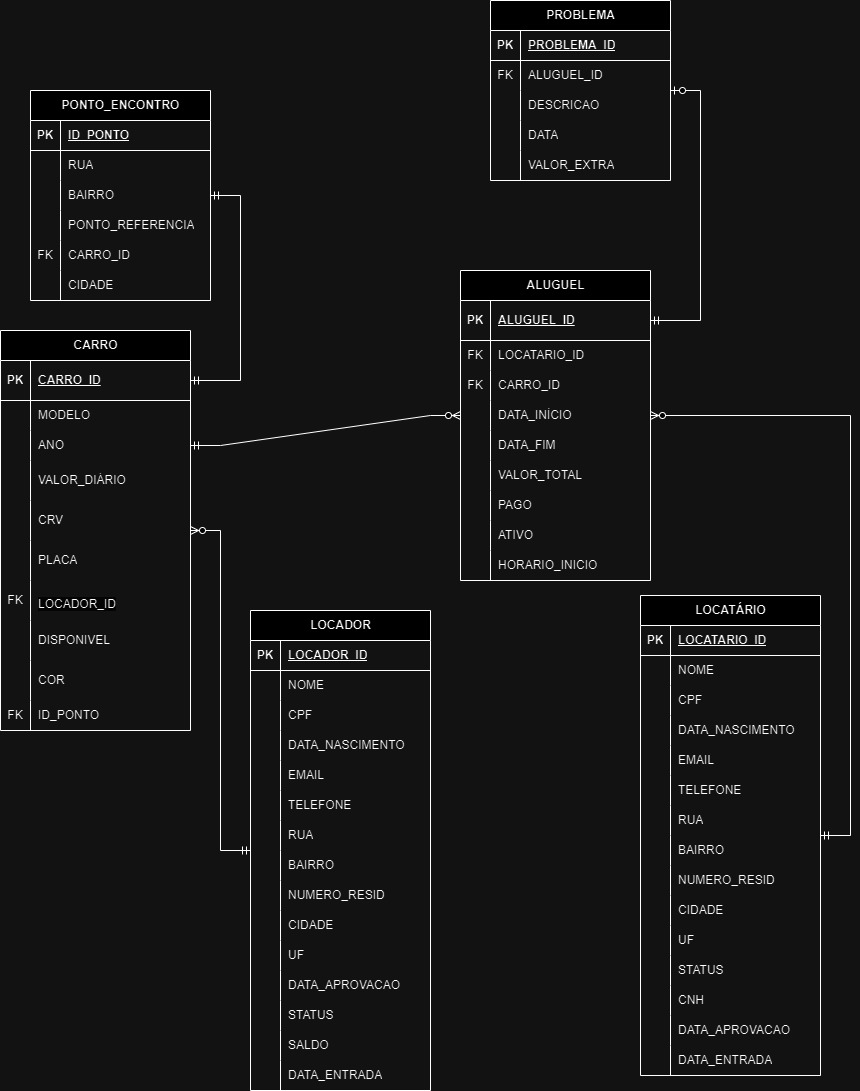
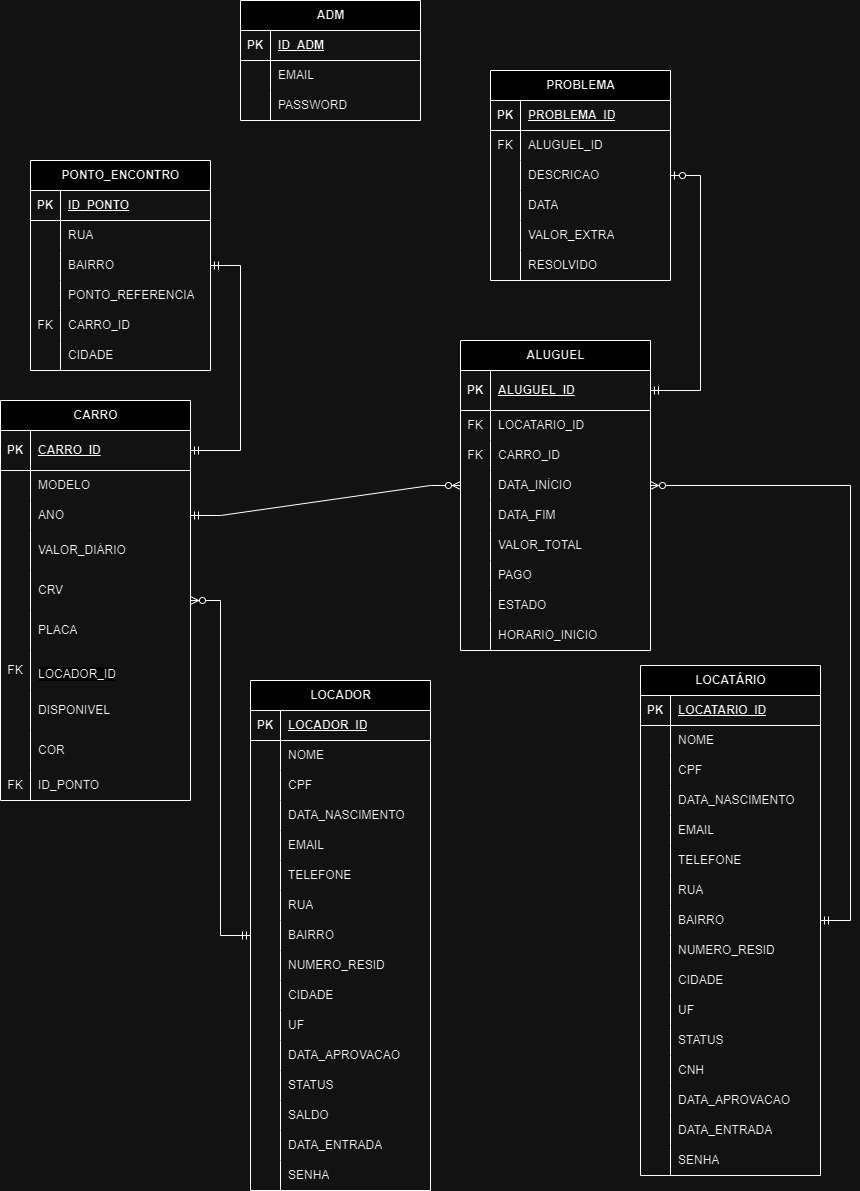
Correções gerais

diff --git a/docs/processo-1-Gerenciamento-de-clientes.md b/docs/processo-1-Gerenciamento-de-clientes.md
@@ -14,25 +14,26 @@
 
 | **Comandos**         |  **Destino**                   | **Tipo**          |
 | ---                  | ---                            | ---               |
-|    Cadastrar-se como Locador   |  Tela de cadastro de locador        |       |
-| Cadastrar-se como Locatário | Tela de cadastro de locatário |     |
+|    Locar um veículo   |  Tela de cadastro de locador        |       |
+| Alugar um veículo | Tela de cadastro de locatário |     |
 | Voltar | Retorna a página inicial  | cancel |
 
 **Cadastrar dados como locatário**
 
 | **Campo**       | **Tipo**         | **Restrições** | **Valor default** |
 | ---             | ---              | ---            | ---               |
-|   Nome          |   Caixa de texto |                |                   |
-|   CPF           | Caixa de texto   | 000.000.000-00 |                   |
-| Data de nascimento | Data          |    00/00/0000  |                   |
+|   Nome Completo         |   Caixa de texto |                |                   |
 |   E-mail        | Caixa de texto   |                |                   |
 |   Telefone     | Número            | (00) 9 0000-0000 |                 |  
+| Data de nascimento | Data          |    00/00/0000  |                   |
 | Rua            | Caixa de texto  |                |                     |
 | Bairro        | Caixa de texto  |                   |                   |
 | Número         | Número            |                |                   |
 | Cidade        | Caixa de seleção   |                |                   |
 | UF            | Caixa de seleção   |                |                   |
-| Foto do documento CNH        | Arquivo  |                |              |          
+|   CPF           | Caixa de texto   | 000.000.000-00 |                   |
+| Registro documento CNH        | Caixa de texto  |                |              |   
+| Senha        | Caixa de texto  |                   |                   |       
             
 
 | **Comandos**         |  **Destino**                   | **Tipo**          |
@@ -44,7 +45,7 @@
 
 | **Campo**       | **Tipo**         | **Restrições** | **Valor default** |
 | ---             | ---              | ---            | ---               |
-|   Nome          |   Caixa de texto |                |                   |
+|   Nome Completo         |   Caixa de texto |                |                   |
 |   CPF           | Caixa de texto   | 000.000.000-00 |                   |
 | Data de nascimento | Data          |    00/00/0000  |                   |
 |   E-mail        | Caixa de texto   |                |                   |
@@ -54,10 +55,11 @@
 | Número         | Número            |                |                   |
 | Cidade        | Caixa de seleção   |                |                   |
 | UF            | Caixa de seleção   |                |                   |
+|Senha        | Caixa de texto  |                   |                   |
 
 | **Comandos**         |  **Destino**                   | **Tipo**          |
 | ---                  | ---                            | ---               |
-|   Enviar            |  Envia dados para Tela de Atualizar status do usuário      |       Default            |
+|   Enviar            |  Volta para o Menu principal      |       Default            |
 | Voltar | Retorna para tela anterior | cancel |
 
 
@@ -67,25 +69,15 @@
 | **Campo**       | **Tipo**         | **Restrições** | **Valor default** |
 | ---             | ---              | ---            | ---               |
 |   Nome          |   Caixa de texto |   Apenas visualização             |                   |
+| N° de registro CNH | Caixa de texto | Apenas visualização |                   |       
 |   CPF           | Caixa de texto   | Apenas visualização|                   |
-| Data de nascimento | Data          |   Apenas visualização  |                   |
-|   E-mail        | Caixa de texto   |      Apenas visualização          |                   |
-|   Telefone     | Número            | Apenas visualização |                 |  
-| Rua            | Caixa de texto  |      Apenas visualização          |                     |
-| Bairro        | Caixa de texto  |         Apenas visualização          |                   |
-| Número         | Número            |         Apenas visualização       |                   |
-| Cidade        | Caixa de seleção   |        Apenas visualização        |                   |
-| UF            | Caixa de seleção   |        Apenas visualização        |                   |
-| Foto do documento CNH        | Imagem  |      Apenas visualização          |              |         
 
-| **Comandos**         |  **Destino**                   | **Tipo**          |
-| ---                  | ---                            | ---               |
-| Proxima tarefa       | Tela de Atualizar status do usuário            |                 |
+
 
 **Atualizar status do usuário**
 | **Comandos**         |  **Destino**                   | **Tipo**          |
 | ---                  | ---                            | ---               |
-|         Aprovar          |      Fim do processo    |                   |
-|         Reprovar         |    Cancela processo                  | cancel  |
+|         Aprovar          |    Aprova usuário e Fim do processo    |                   |
+
 
 

diff --git a/docs/README.md b/docs/README.md
@@ -59,8 +59,6 @@ _Desenvolver um sistema para automação dos processos de aluguel de um veículo
 
 #### 1.3.1 Objetivos específicos
 
--_Elaborar mecanismos de pesquisa e filtragem de veículos disponiveis para aluguel ._
-
 -_Desenvolver requisitos que visem a gerência dos veículos registrados e seus status correntes (disponível ou alugado)._
 
 -_Desenvolver um sistema interno de pagamentos._
@@ -94,13 +92,13 @@ _O projeto WheelsOn visa preencher esta lacuna deixada pelo mercado, unindo prop
 
 ### 3.3. Modelagem dos processos
 
-[PROCESSO 1 - Nome do Processo](https://github.com/ICEI-PUC-Minas-PPLES-TI/plf-es-2024-1-ti2-1372100-grupo-1-wheelson/blob/main/docs/processo-1-Gerenciamento-de-clientes.md)  
+[PROCESSO 1 - Gerenciamento de Clientes](https://github.com/ICEI-PUC-Minas-PPLES-TI/plf-es-2024-1-ti2-1372100-grupo-1-wheelson/blob/main/docs/processo-1-Gerenciamento-de-clientes.md)  
 
-[PROCESSO 2 - Gerenciamento de veiculos](https://github.com/ICEI-PUC-Minas-PPLES-TI/plf-es-2024-1-ti2-1372100-grupo-1-wheelson/blob/main/docs/processo-2-Gerenciamento-de-veiculos.md )
+[PROCESSO 2 - Gerenciamento de veículos](https://github.com/ICEI-PUC-Minas-PPLES-TI/plf-es-2024-1-ti2-1372100-grupo-1-wheelson/blob/main/docs/processo-2-Gerenciamento-de-veiculos.md )
 
-[PROCESSO 3 - Reserva de veículo](https://github.com/ICEI-PUC-Minas-PPLES-TI/plf-es-2024-1-ti2-1372100-grupo-1-wheelson/blob/main/docs/processo-3-Aluguel-de-ve%C3%ADculos.md)
+[PROCESSO 3 - Aluguel de veículo](https://github.com/ICEI-PUC-Minas-PPLES-TI/plf-es-2024-1-ti2-1372100-grupo-1-wheelson/blob/main/docs/processo-3-Aluguel-de-ve%C3%ADculos.md)
 
-[PROCESSO 4 - Nome do Processo](https://github.com/ICEI-PUC-Minas-PPLES-TI/plf-es-2024-1-ti2-1372100-grupo-1-wheelson/blob/main/docs/processo-4-Devolu%C3%A7%C3%A3o-de-ve%C3%ADculo.md)
+[PROCESSO 4 - Devolução de veículos](https://github.com/ICEI-PUC-Minas-PPLES-TI/plf-es-2024-1-ti2-1372100-grupo-1-wheelson/blob/main/docs/processo-4-Devolu%C3%A7%C3%A3o-de-ve%C3%ADculo.md)
 
 ## 4. Projeto da solução
 
